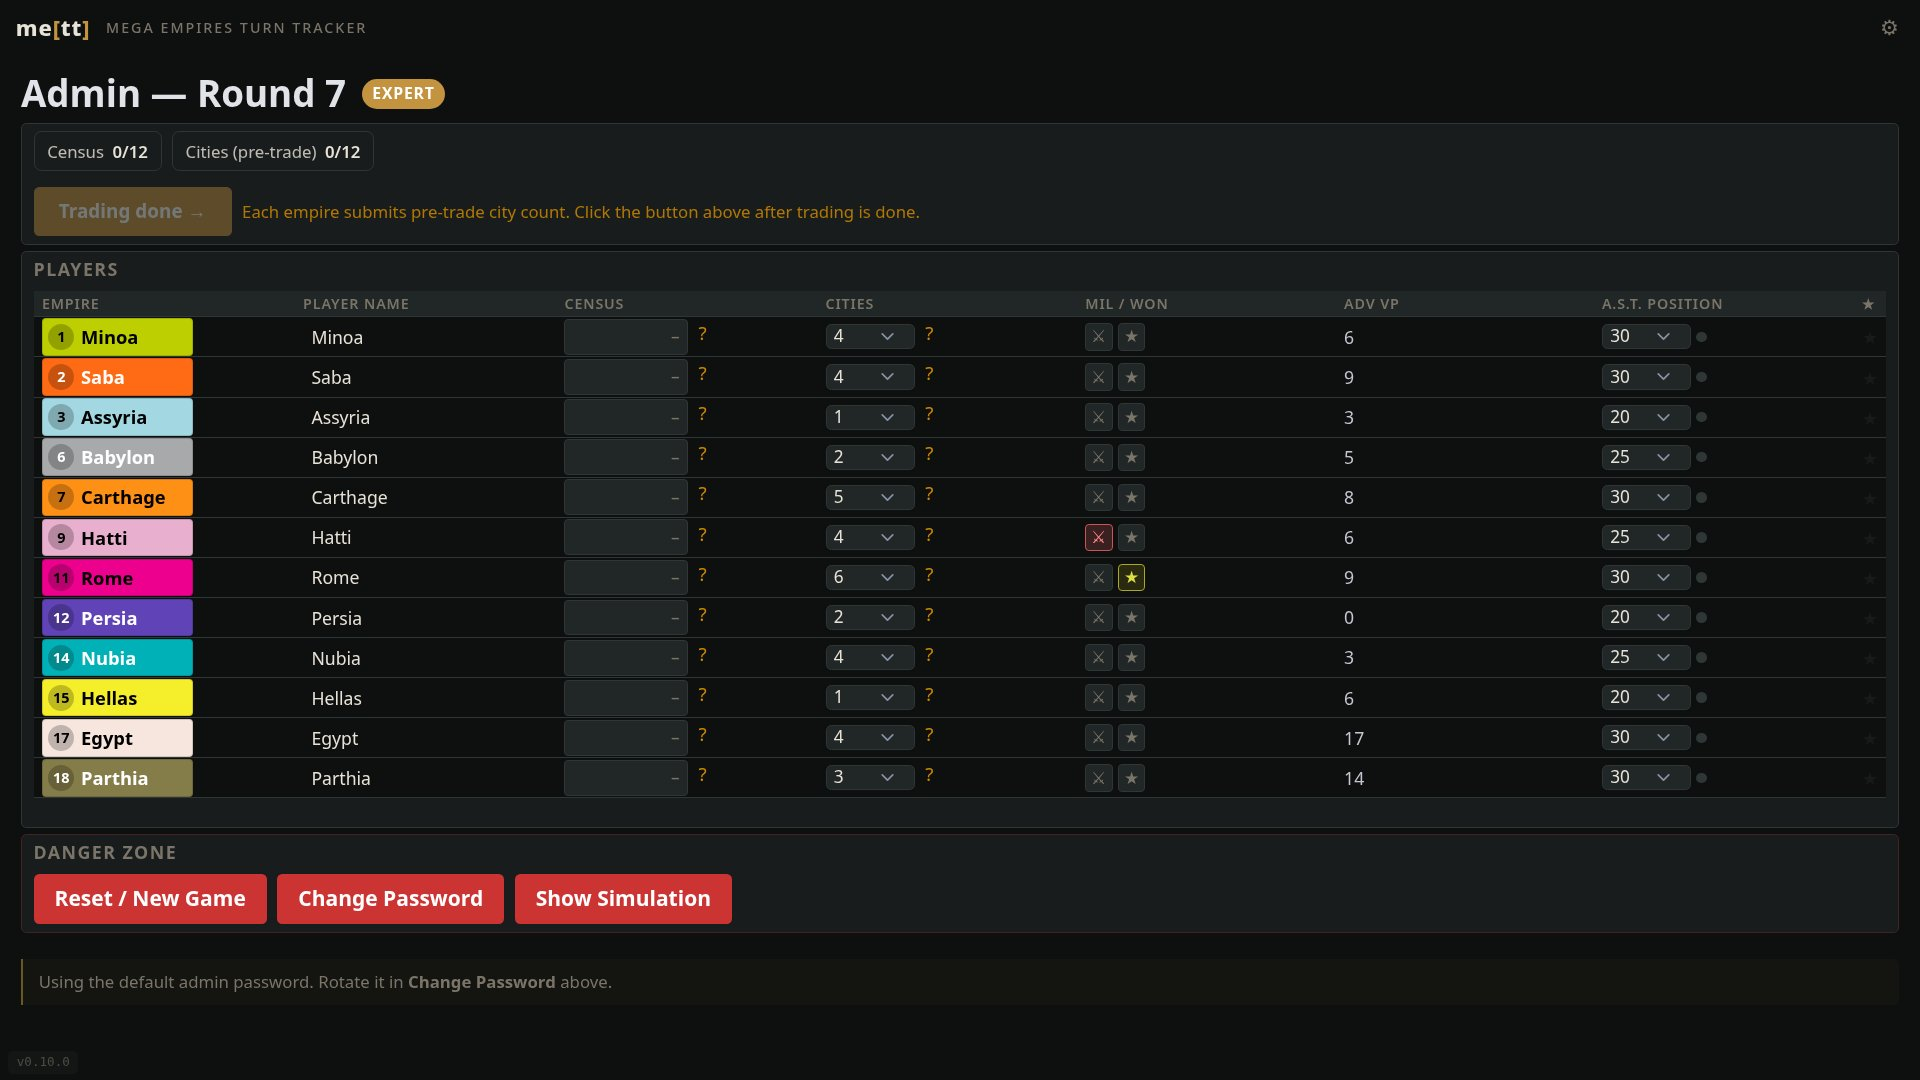
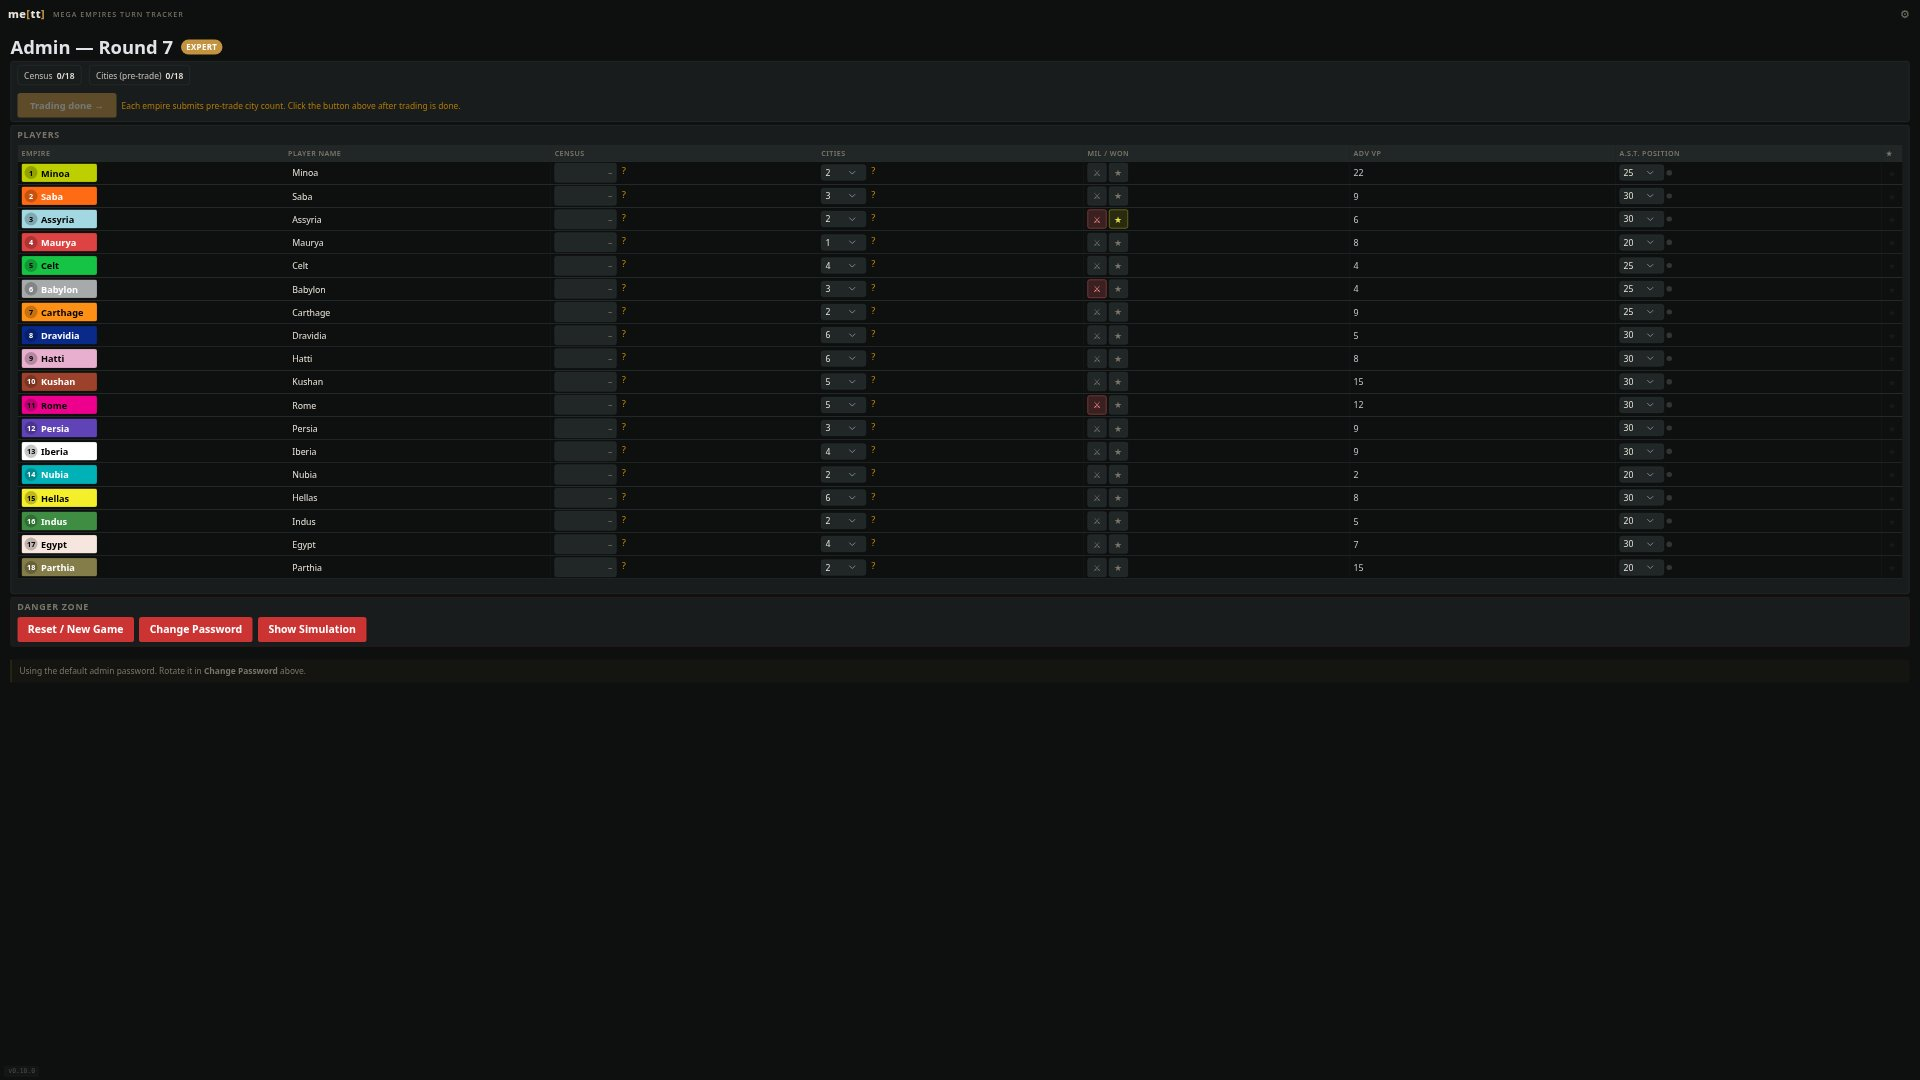
Screenshots: capture status + admin at 4K layout (1920×1080 16:9)
The previous status + admin captures used a 1920×1080 viewport, which
is the LAYOUT MINIMUM (status/admin primary target is WQHD/4K per the
viewport hierarchy). Result was the 1080p-floor variant of the layout
with cramped empire cells and minimum column widths.

Switch to a 3840×2160 (4K) CSS viewport with deviceScaleFactor=0.5
so the @media (min-width: 192rem) breakpoint activates and the page
renders at its design target — but the resulting image is captured
at 1920×1080 device pixels, README-friendly. The 4K layout expands
empire cells to 9rem, raises font sizes, and lays out with more
breathing room.

Also bumped the simulate from 12 → 18 players so the screenshots
showcase a full lobby (the design target) rather than a sparse one.

File sizes: status 197 KB, admin 109 KB, civ.png 184 KB. All in the
~150-200 KB ballpark, fine for documentation.

diff --git a/scripts/screenshots.ts b/scripts/screenshots.ts
@@ -12,6 +12,11 @@
  *   - screenshot-admin.jpg    (1920×1080, JPEG q=85)  ─── admin / Players
  *   - screenshot-civ.png      (Pixel 7 viewport)      ─── single empire page
  *
+ * Status + admin are captured at a 4K *CSS* viewport (3840×2160) with a
+ * deviceScaleFactor of 0.5, so the @media (min-width: 192rem) breakpoint
+ * activates and the page lays out for the TV target — but the resulting
+ * image is rendered at 1920×1080 device pixels, README-friendly.
+ *
  * Side effect: the simulate call resets the game on the dev DB, so don't run
  * this against an in-progress real session.
  */
@@ -34,7 +39,7 @@ async function loginAdmin(ctx: BrowserContext): Promise<void> {
 async function simulateMidGame(ctx: BrowserContext): Promise<void> {
   const page = await ctx.newPage();
   const res = await page.request.post(`${BASE}/api/debug/simulate`, {
-    data: { expert: 1, player_count: 12, rounds: 6 },
+    data: { expert: 1, player_count: 18, rounds: 6 },
   });
   if (!res.ok()) {
     throw new Error(`simulate failed: ${res.status()} ${await res.text()}`);
@@ -58,8 +63,14 @@ async function pickCivSlug(ctx: BrowserContext): Promise<string> {
   return civById.get(first.civ_id)!.slug;
 }
 
+// 4K CSS viewport + half DPR → 4K layout, 1920×1080 image.
+const TV_CONTEXT = {
+  viewport: { width: 3840, height: 2160 },
+  deviceScaleFactor: 0.5,
+};
+
 async function captureStatus(browser: Browser): Promise<void> {
-  const ctx = await browser.newContext({ viewport: { width: 1920, height: 1080 } });
+  const ctx = await browser.newContext(TV_CONTEXT);
   const page = await ctx.newPage();
   await page.goto(`${BASE}/`);
   await page.waitForLoadState('networkidle');
@@ -74,7 +85,7 @@ async function captureStatus(browser: Browser): Promise<void> {
 }
 
 async function captureAdmin(browser: Browser): Promise<void> {
-  const ctx = await browser.newContext({ viewport: { width: 1920, height: 1080 } });
+  const ctx = await browser.newContext(TV_CONTEXT);
   await ctx.addCookies([
     { name: 'mett_admin', value: ADMIN_PASSWORD, url: BASE },
   ]);
